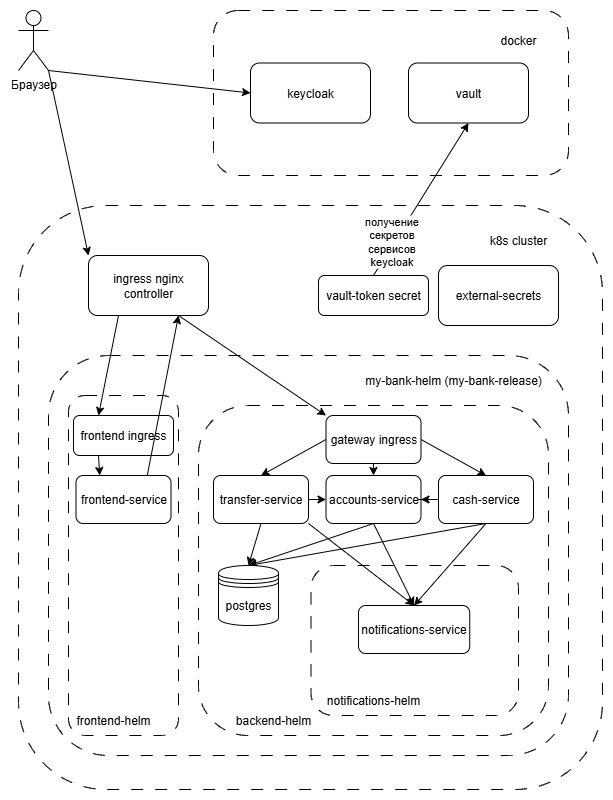
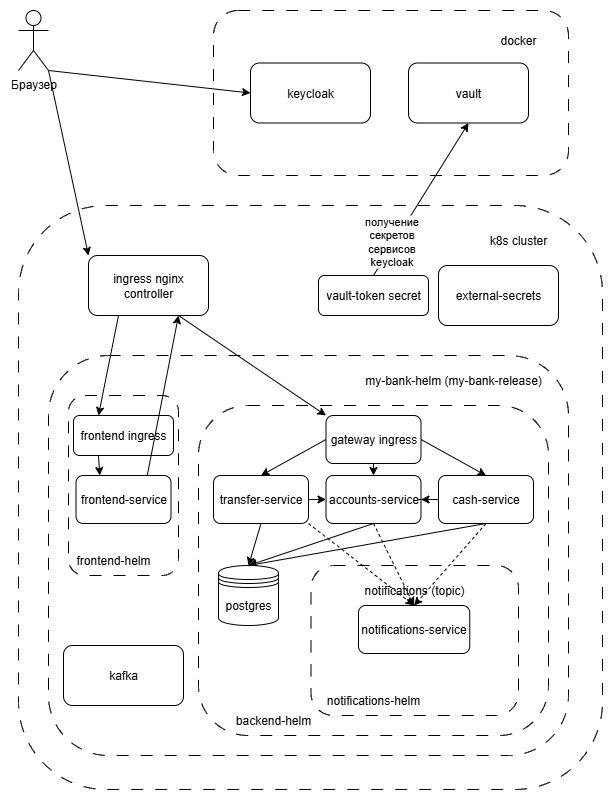
Правка README.md

Changed region(s): [[0.5889, 0.7188, 0.7439, 0.75], [0.124, 0.8438, 0.248, 0.9062], [0.124, 0.6875, 0.248, 0.7188]]

diff --git a/README.md b/README.md
@@ -25,7 +25,7 @@
 - Запустить `docker engine`
 - Выполнить `docker-build.sh`
 - Выполнить `docker compose up -d`
-- Выполнить `helm-common-install.sh`
+- Выполнить `helm-common-install.sh` (взаимодействие с keycloak, создание ingress-nginx контроллера, поднятие kafka)
 - Выполнить `helm dependency build ./my-bank-chart/charts/backend-chart`
 - Выполнить `helm dependency build ./my-bank-chart`
 - Выполнить `helm lint ./my-bank-chart` для валидации конфигурации
@@ -68,7 +68,8 @@
     - `frontend-chart`: чарт сервиса фронденда, содержащий сам сервис и ingress для внешнего доступа из вне кластера
     - `backend-chart`: чарт сервисов бэкенда (accounts-service, transfer-service, cash-service) и их базы данных
       postgresql. K8s ресурсы сервисов созданы с помощью Range цикла так как являются типовыми. Так же содержит
-      gateway-ingress для доступа к сервисам через единый домен gateway кластера.
+      gateway-ingress для доступа к сервисам через единый домен gateway кластера и задачу создания очереди уведомлений 
+      (notifications) в kafka.
         - `notifications-chart`: чарт сервиса уведомлений, который является сабчартом общего backend-чарта
 
 ![](./my-bank-schema.jpg)
